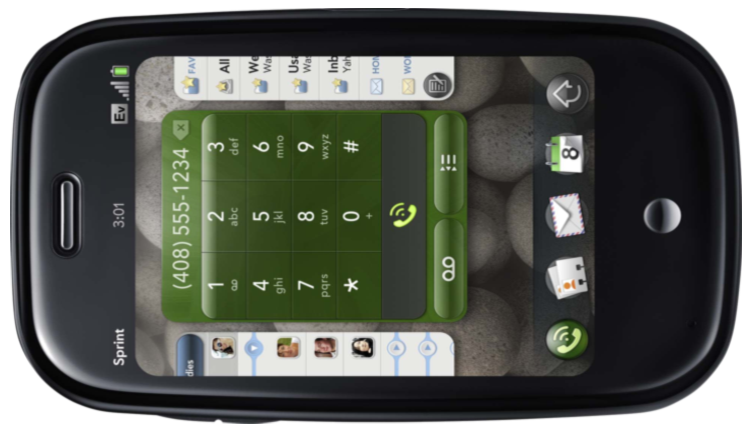
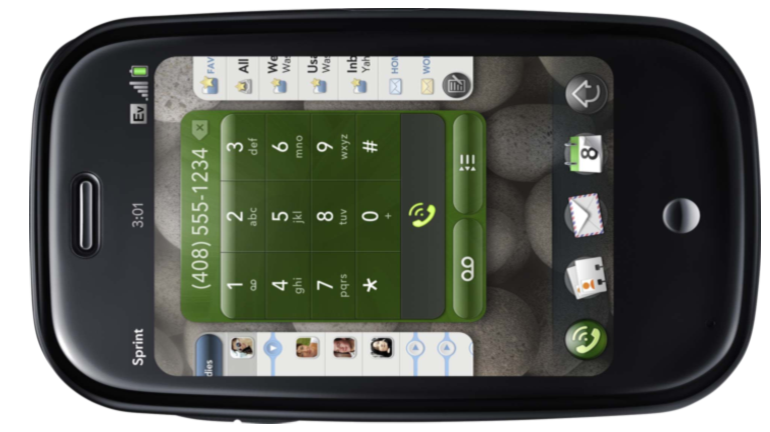
Working on emulators

diff --git a/src/emulators/css/palm.landscape.css b/src/emulators/css/palm.landscape.css
@@ -1,6 +1,6 @@
 .palm .emulator {
   background: image_url("emulators/palm.pre.landscape.png") no-repeat;
-  width: 760px;
+  width: 770px;
   height: 432px;
 }
 .palm .emulator .display-area {
